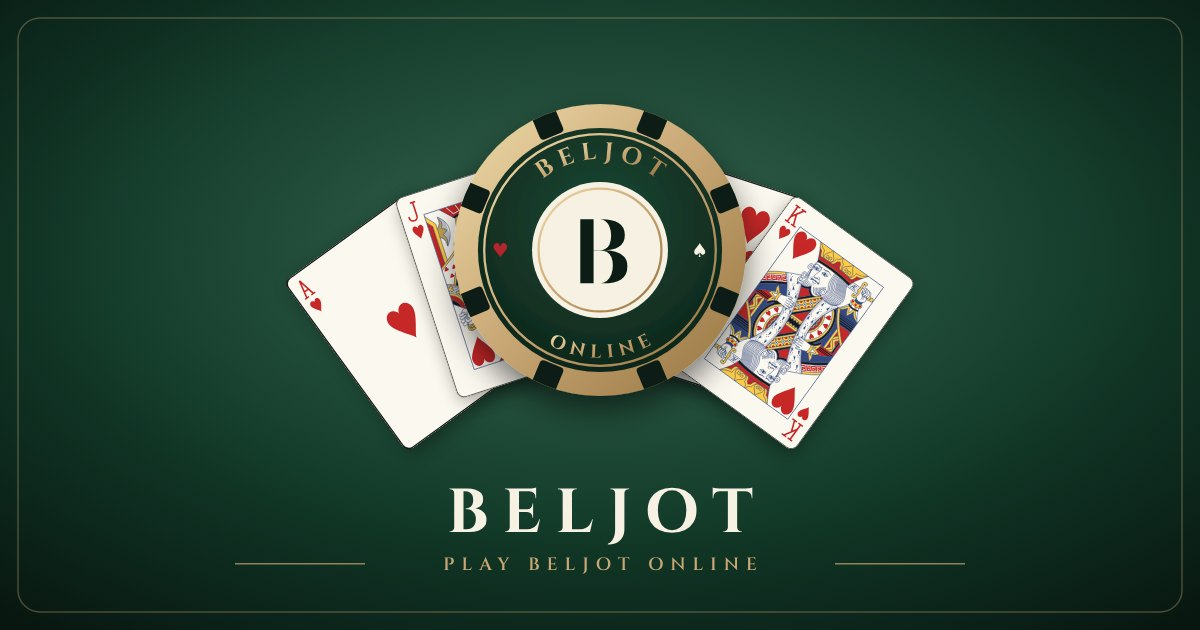
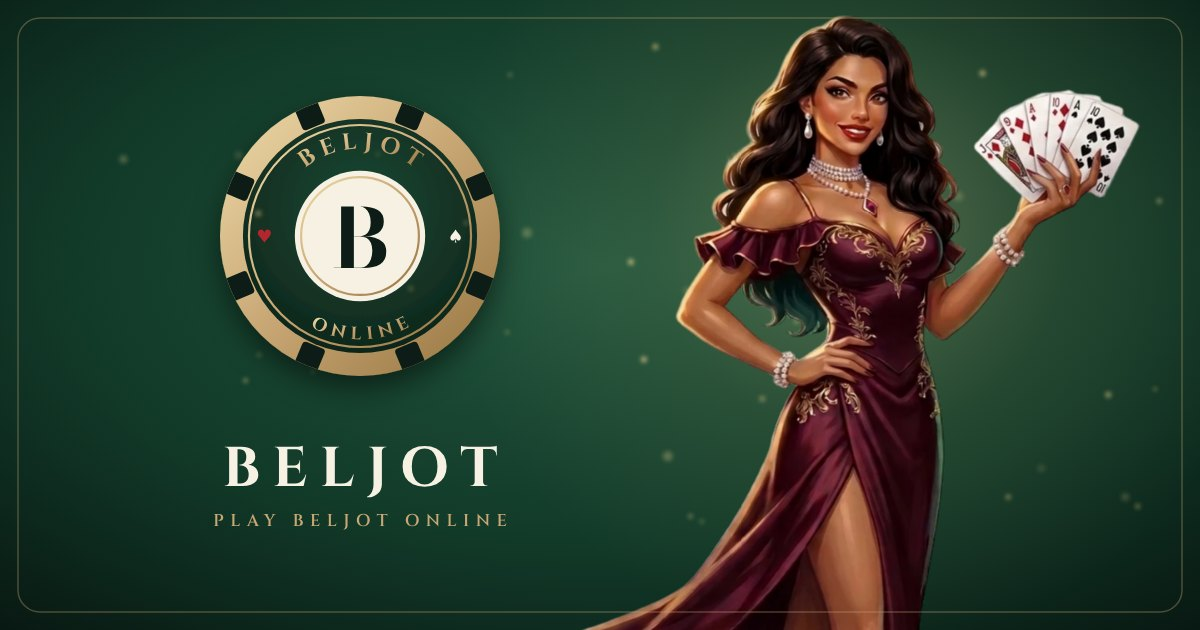
feat(brand): Dama in the link preview, mascot cut-outs
Claude-Session: https://claude.ai/code/session_01DvbiW4fTZ28psKffwLaFc2

diff --git a/client/index.html b/client/index.html
@@ -35,7 +35,10 @@
     <meta property="og:image:type" content="image/jpeg" />
     <meta property="og:image:width" content="1200" />
     <meta property="og:image:height" content="630" />
-    <meta property="og:image:alt" content="The Beljot brass chip on a fanned hand of hearts" />
+    <meta
+      property="og:image:alt"
+      content="Dama, the Beljot hostess, holding a hand of cards beside the brass Beljot chip"
+    />
     <meta name="twitter:card" content="summary_large_image" />
     <!-- Paints the signed-in player's brass mode before the session restores;
          useThemeSync takes over (and clears it on sign-out) once it has. -->

diff --git a/docs/brand/source/og.py b/docs/brand/source/og.py
@@ -1,4 +1,5 @@
 import os
+import random
 import sys
 
 sys.path.insert(0, os.path.dirname(os.path.abspath(__file__)))
@@ -7,49 +8,77 @@ from kit import BRASS, CREAM, cinzel, num  # noqa: E402
 from options import chip_defs, chip_mark  # noqa: E402
 
 HERE = os.path.dirname(os.path.abspath(__file__))
-REPO = os.path.abspath(os.path.join(HERE, "..", "..", ".."))
-CARDS = os.path.join(REPO, "client", "public", "cards", "french") + "/"
+MASCOT = os.path.join(HERE, "..", "mascot") + "/"
 OUT = os.path.join(HERE, "build")
+W, H = 1200, 630
+SIZES = {"dama-cards-half": (758, 768), "dama-welcome": (986, 1600)}
 
 
-def card(face, cx, cy, w, rot):
-    h = w * 1.4
-    return (f'<g transform="translate({num(cx)} {num(cy)}) rotate({rot})">'
-            f'<rect x="{num(-w / 2 + 2)}" y="{num(-h / 2 + 6)}" width="{num(w)}" height="{num(h)}" rx="{num(w * 0.05)}" fill="#000" opacity=".35" filter="url(#cs)"/>'
-            f'<rect x="{num(-w / 2)}" y="{num(-h / 2)}" width="{num(w)}" height="{num(h)}" rx="{num(w * 0.05)}" fill="#fbf8ef" stroke="#00000033" stroke-width="1"/>'
-            f'<image href="file://{CARDS}{face}.svg" x="{num(-w / 2)}" y="{num(-h / 2)}" width="{num(w)}" height="{num(h)}"/></g>')
+def defs(spot_x, spot_y):
+    return (chip_defs("og")
+            + '<radialGradient id="felt" cx=".5" cy=".42" r=".8"><stop offset="0" stop-color="#22573f"/>'
+              '<stop offset=".55" stop-color="#123a29"/><stop offset="1" stop-color="#071510"/></radialGradient>'
+            + f'<radialGradient id="spot" gradientUnits="userSpaceOnUse" cx="{spot_x}" cy="{spot_y}" r="420">'
+              '<stop offset="0" stop-color="#f3d9a0" stop-opacity=".28"/><stop offset=".5" stop-color="#e0b56a" stop-opacity=".08"/>'
+              '<stop offset="1" stop-color="#e0b56a" stop-opacity="0"/></radialGradient>'
+            + '<filter id="bokeh" x="-50%" y="-50%" width="200%" height="200%"><feGaussianBlur stdDeviation="2.2"/></filter>'
+            + '<filter id="lift" x="-30%" y="-30%" width="160%" height="160%">'
+              '<feDropShadow dx="0" dy="12" stdDeviation="14" flood-color="#000" flood-opacity=".5"/></filter>')
 
 
-def og_svg():
-    W, H = 1200, 630
-    defs = (chip_defs("og")
-            + '<radialGradient id="felt" cx=".5" cy=".42" r=".75"><stop offset="0" stop-color="#22573f"/>'
-              '<stop offset=".55" stop-color="#123a29"/><stop offset="1" stop-color="#081710"/></radialGradient>'
-            + '<filter id="cs" x="-30%" y="-30%" width="160%" height="160%"><feGaussianBlur stdDeviation="9"/></filter>'
-            + '<filter id="chipShadow" x="-30%" y="-30%" width="160%" height="160%">'
-              '<feDropShadow dx="0" dy="14" stdDeviation="16" flood-color="#000" flood-opacity=".55"/></filter>'
-            + '<radialGradient id="spot" cx=".5" cy=".38" r=".5"><stop offset="0" stop-color="#fff" stop-opacity=".09"/>'
-              '<stop offset="1" stop-color="#fff" stop-opacity="0"/></radialGradient>')
-    parts = [f'<rect width="{W}" height="{H}" fill="url(#felt)"/>',
-             f'<rect width="{W}" height="{H}" fill="url(#spot)"/>',
-             f'<rect x="18" y="18" width="{W - 36}" height="{H - 36}" rx="22" fill="none" stroke="{BRASS}" stroke-opacity=".35" stroke-width="1.5"/>']
-    fan = [("AH", -36), ("JH", -18), ("TH", 0), ("9H", 18), ("KH", 36)]
-    px, py = 600, 590
-    for face, rot in fan:
-        parts.append(f'<g transform="rotate({rot} {px} {py})">{card(face, px, py - 330, 150, 0)}</g>')
-    parts.append(f'<g filter="url(#chipShadow)">{chip_mark("og", 600, 250, 146)}</g>')
-    name = cinzel(700)
-    parts.append(f'<path d="{name.path("BELJOT", 62, 600, 532, tracking=14, anchor="middle")}" fill="{CREAM}"/>')
-    sub = cinzel(600)
-    parts.append(f'<path d="{sub.path("PLAY BELJOT ONLINE", 18, 600, 570, tracking=7, anchor="middle")}" fill="{BRASS}"/>')
-    rule_w = 130
-    parts.append(f'<rect x="{600 - 300 - rule_w / 2}" y="563" width="{rule_w}" height="1.5" fill="{BRASS}" opacity=".7"/>')
-    parts.append(f'<rect x="{600 + 300 - rule_w / 2}" y="563" width="{rule_w}" height="1.5" fill="{BRASS}" opacity=".7"/>')
-    return (f'<svg xmlns="http://www.w3.org/2000/svg" xmlns:xlink="http://www.w3.org/1999/xlink" width="{W}" height="{H}" '
-            f'viewBox="0 0 {W} {H}"><defs>{defs}</defs>{"".join(parts)}</svg>')
+def bokeh(seed, region, n=26):
+    rnd = random.Random(seed)
+    x0, y0, x1, y1 = region
+    dots = []
+    for _ in range(n):
+        r = rnd.choice([1.5, 2, 2.5, 3, 4, 5])
+        op = rnd.uniform(0.25, 0.75) if r < 3.5 else rnd.uniform(0.12, 0.3)
+        dots.append(f'<circle cx="{num(rnd.uniform(x0, x1))}" cy="{num(rnd.uniform(y0, y1))}" r="{r}" fill="#f2d48f" opacity="{num(op)}"/>')
+    return f'<g filter="url(#bokeh)">{"".join(dots)}</g>'
+
+
+def dama(name, x, y, height):
+    sw, sh = SIZES[name]
+    width = sw * height / sh
+    return f'<image href="file://{MASCOT}{name}.webp" x="{num(x)}" y="{num(y)}" width="{num(width)}" height="{num(height)}"/>'
+
+
+def wordmark(cx, base, size, tag):
+    return (f'<path d="{cinzel(700).path("BELJOT", size, cx, base, tracking=size * 0.22, anchor="middle")}" fill="{CREAM}"/>'
+            f'<path d="{cinzel(600).path("PLAY BELJOT ONLINE", tag, cx, base + 40, tracking=tag * 0.38, anchor="middle")}" fill="{BRASS}"/>')
+
+
+def page(body, spot):
+    frame = f'<rect x="18" y="18" width="{W - 36}" height="{H - 36}" rx="22" fill="none" stroke="{BRASS}" stroke-opacity=".35" stroke-width="1.5"/>'
+    return (f'<svg xmlns="http://www.w3.org/2000/svg" width="{W}" height="{H}" viewBox="0 0 {W} {H}">'
+            f'<defs>{defs(*spot)}</defs><rect width="{W}" height="{H}" fill="url(#felt)"/><rect width="{W}" height="{H}" fill="url(#spot)"/>'
+            f'{body}{frame}</svg>')
+
+
+def trumps():
+    sw, sh = SIZES["dama-cards-half"]
+    height = 640
+    x = W - 40 - sw * height / sh
+    body = (bokeh(3, (620, 40, 1160, 560))
+            + dama("dama-cards-half", x, H - height + 8, height)
+            + f'<g filter="url(#lift)">{chip_mark("og", 360, 236, 140)}</g>'
+            + bokeh(4, (120, 60, 600, 400), 12)
+            + wordmark(360, 486, 56, 17))
+    return page(body, (860, 230))
+
+
+def presents():
+    body = (bokeh(1, (40, 40, 640, 560))
+            + dama("dama-welcome", 70, 22, 1010)
+            + f'<g filter="url(#lift)">{chip_mark("og", 860, 236, 132)}</g>'
+            + bokeh(2, (700, 60, 1150, 420), 14)
+            + wordmark(860, 486, 54, 17))
+    return page(body, (380, 210))
 
 
 if __name__ == "__main__":
     os.makedirs(OUT, exist_ok=True)
-    open(f"{OUT}/og.svg", "w").write(og_svg())
-    print("ok")
+    layout = sys.argv[1] if len(sys.argv) > 1 else "trumps"
+    with open(os.path.join(OUT, "og.svg"), "w") as fh:
+        fh.write({"trumps": trumps, "presents": presents}[layout]())
+    print("ok", layout)

diff --git a/docs/brand/README.md b/docs/brand/README.md
@@ -14,7 +14,8 @@ The logo is a brass casino chip: felt inserts on the rim, BELJOT around the top,
 | `beljot-chip-white.svg` | One colour, white: reversed out of dark photos or dark stock. |
 | `beljot-chip-gold.svg` / `.pdf` | One colour, brass `#c9a876`: the plate for gold foil or embossing. |
 | `beljot-chip-1024.png` | Raster for tools that refuse vectors. |
-| `client/public/og-image.jpg` | The 1200×630 link preview shown when beljot.online is shared. After changing it, re-scrape the link in Facebook's Sharing Debugger. |
+| `client/public/og-image.jpg` | The 1200×630 link preview shown when beljot.online is shared: Dama holding a hand of cards beside the chip. After changing it, re-scrape the link in Facebook's Sharing Debugger. |
+| `mascot/dama-*.webp` | Dama, the house hostess, cut out on transparency: `welcome`, `cards-half`, `signature`, `dealing` and `win`. |
 
 Every letter is outlined, so no file needs a font installed. The PDFs are vector; they are sized at 100mm (chip) and 180mm wide (lockups) but scale freely.
 
@@ -36,6 +37,10 @@ For gold foil, give the printer `beljot-chip-gold.pdf` as the foil plate and ask
 - **Clear space:** keep at least a quarter of the chip's diameter free on every side.
 - **Don't** recolour the chip outside the one-colour versions, stretch it, rotate it, or set the wordmark in a live font.
 
+## Mascot
+
+Dama is the house hostess: long dark waves, a burgundy and gold gown, pearls and a ruby diamond pendant. Every pose is generated on a flat grey ground and cut out, so she sits on the felt, the cream background or the link preview. Keep effects (chips, sparkles) out of her layer, and check the hair edges on both dark and light grounds before shipping a new pose.
+
 ## Fonts
 
 Cinzel (wordmark, rim) and Bodoni Moda (the B), both SIL Open Font License, free for commercial use.
@@ -50,5 +55,7 @@ cd docs/brand/source
 python3 final.py && python3 og.py
 cd ../../../client && node ../docs/brand/source/render.mjs
 ```
+
+`og.py` has two layouts: `trumps` (the default, Dama on the right with her hand of cards) and `presents` (Dama on the left presenting the chip). Run `python3 og.py presents` to switch.
 
 `options.py` also holds the four logo directions that were not chosen (card, hand, crown, diamond dot).
